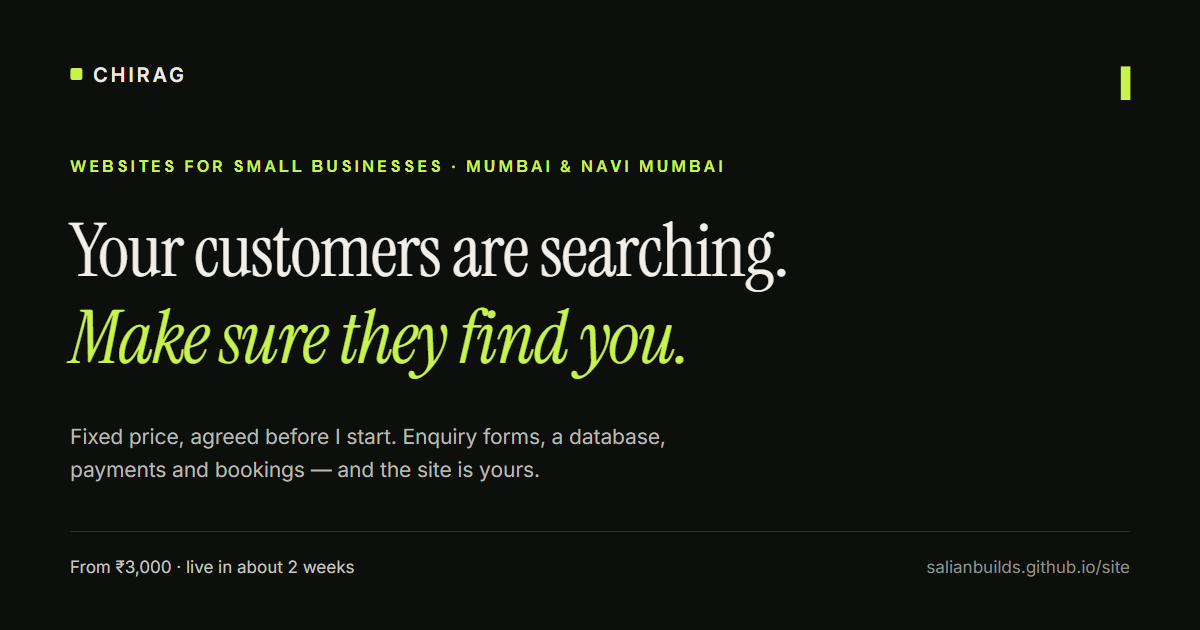
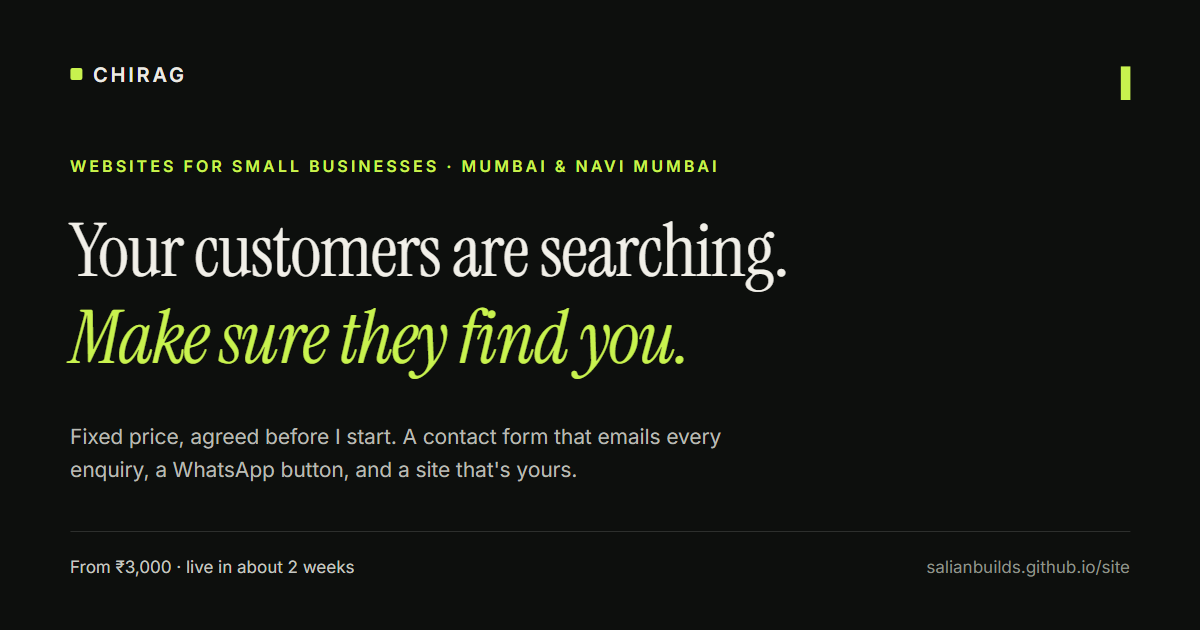
Stop promising a customer database to every visitor; only the 9,000 build actually has one.
- hero and the description/og/twitter copy now claim the starter deliverables: hours and
  location, a contact form that emails every enquiry, a WhatsApp button
- the 9,000 and 25,000 package copy, which does include a database in the client's name,
  is unchanged
- social card re-rendered with the same wording, so search and WhatsApp previews match

Changed region(s): [[0.0617, 0.6635, 0.6167, 0.7841], [0.0925, 0.2413, 0.6167, 0.2714]]

diff --git a/index.html b/index.html
@@ -4,12 +4,12 @@
 <meta charset="utf-8">
 <meta name="viewport" content="width=device-width, initial-scale=1">
 <title>Chirag — websites for small businesses in Mumbai &amp; Navi Mumbai</title>
-<meta name="description" content="I build websites for small businesses in Mumbai and Navi Mumbai. Fixed price upfront: enquiry forms, a customer database, online payments and bookings — a site you own.">
+<meta name="description" content="I build websites for small businesses in Mumbai and Navi Mumbai. Fixed price upfront: your hours and prices, a contact form that emails every enquiry, and a site you own.">
 <link rel="icon" type="image/svg+xml" href="favicon.svg?v=neon">
 <link rel="canonical" href="https://salianbuilds.github.io/site/">
 <meta property="og:type" content="website">
 <meta property="og:title" content="Chirag — websites for small businesses in Mumbai &amp; Navi Mumbai">
-<meta property="og:description" content="I build websites for small businesses in Mumbai and Navi Mumbai. Fixed price upfront: enquiry forms, a database, online payments and a site you own.">
+<meta property="og:description" content="I build websites for small businesses in Mumbai and Navi Mumbai. Fixed price upfront: your hours and prices, a contact form that emails every enquiry, and a site you own.">
 <meta property="og:url" content="https://salianbuilds.github.io/site/">
 <meta property="og:locale" content="en_IN">
 <meta property="og:image" content="https://salianbuilds.github.io/site/og-image.png">
@@ -19,7 +19,7 @@
 <meta property="og:image:alt" content="Chirag — websites for small businesses in Mumbai and Navi Mumbai. From ₹3,000.">
 <meta name="twitter:card" content="summary_large_image">
 <meta name="twitter:title" content="Chirag — websites for small businesses in Mumbai &amp; Navi Mumbai">
-<meta name="twitter:description" content="I build websites for small businesses in Mumbai and Navi Mumbai. Fixed price upfront: enquiry forms, a database, online payments and a site you own.">
+<meta name="twitter:description" content="I build websites for small businesses in Mumbai and Navi Mumbai. Fixed price upfront: your hours and prices, a contact form that emails every enquiry, and a site you own.">
 <meta name="twitter:image" content="https://salianbuilds.github.io/site/og-image.png">
 <meta name="twitter:image:alt" content="Chirag — websites for small businesses in Mumbai and Navi Mumbai. From ₹3,000.">
 <!--
@@ -187,8 +187,8 @@
     <h1>Your customers are searching. <em>Make sure they find you.</em></h1>
     <p class="lede">
       I build websites for small businesses that don't have one yet — clean, fast, phone-friendly, and set up with the
-      things you actually need: enquiry forms, a customer database, online payments and bookings. Fixed price, agreed
-      before I start.
+      things you actually need: your hours and location, a contact form that emails you every enquiry, and a WhatsApp
+      button so people can message you. Fixed price, agreed before I start.
     </p>
     <div class="cta-row">
       <a class="btn btn-accent" href="https://wa.me/919004910077?text=Hi%20Chirag%2C%20I%20want%20a%20website%20for%20my%20business.">Get a free quote</a>
